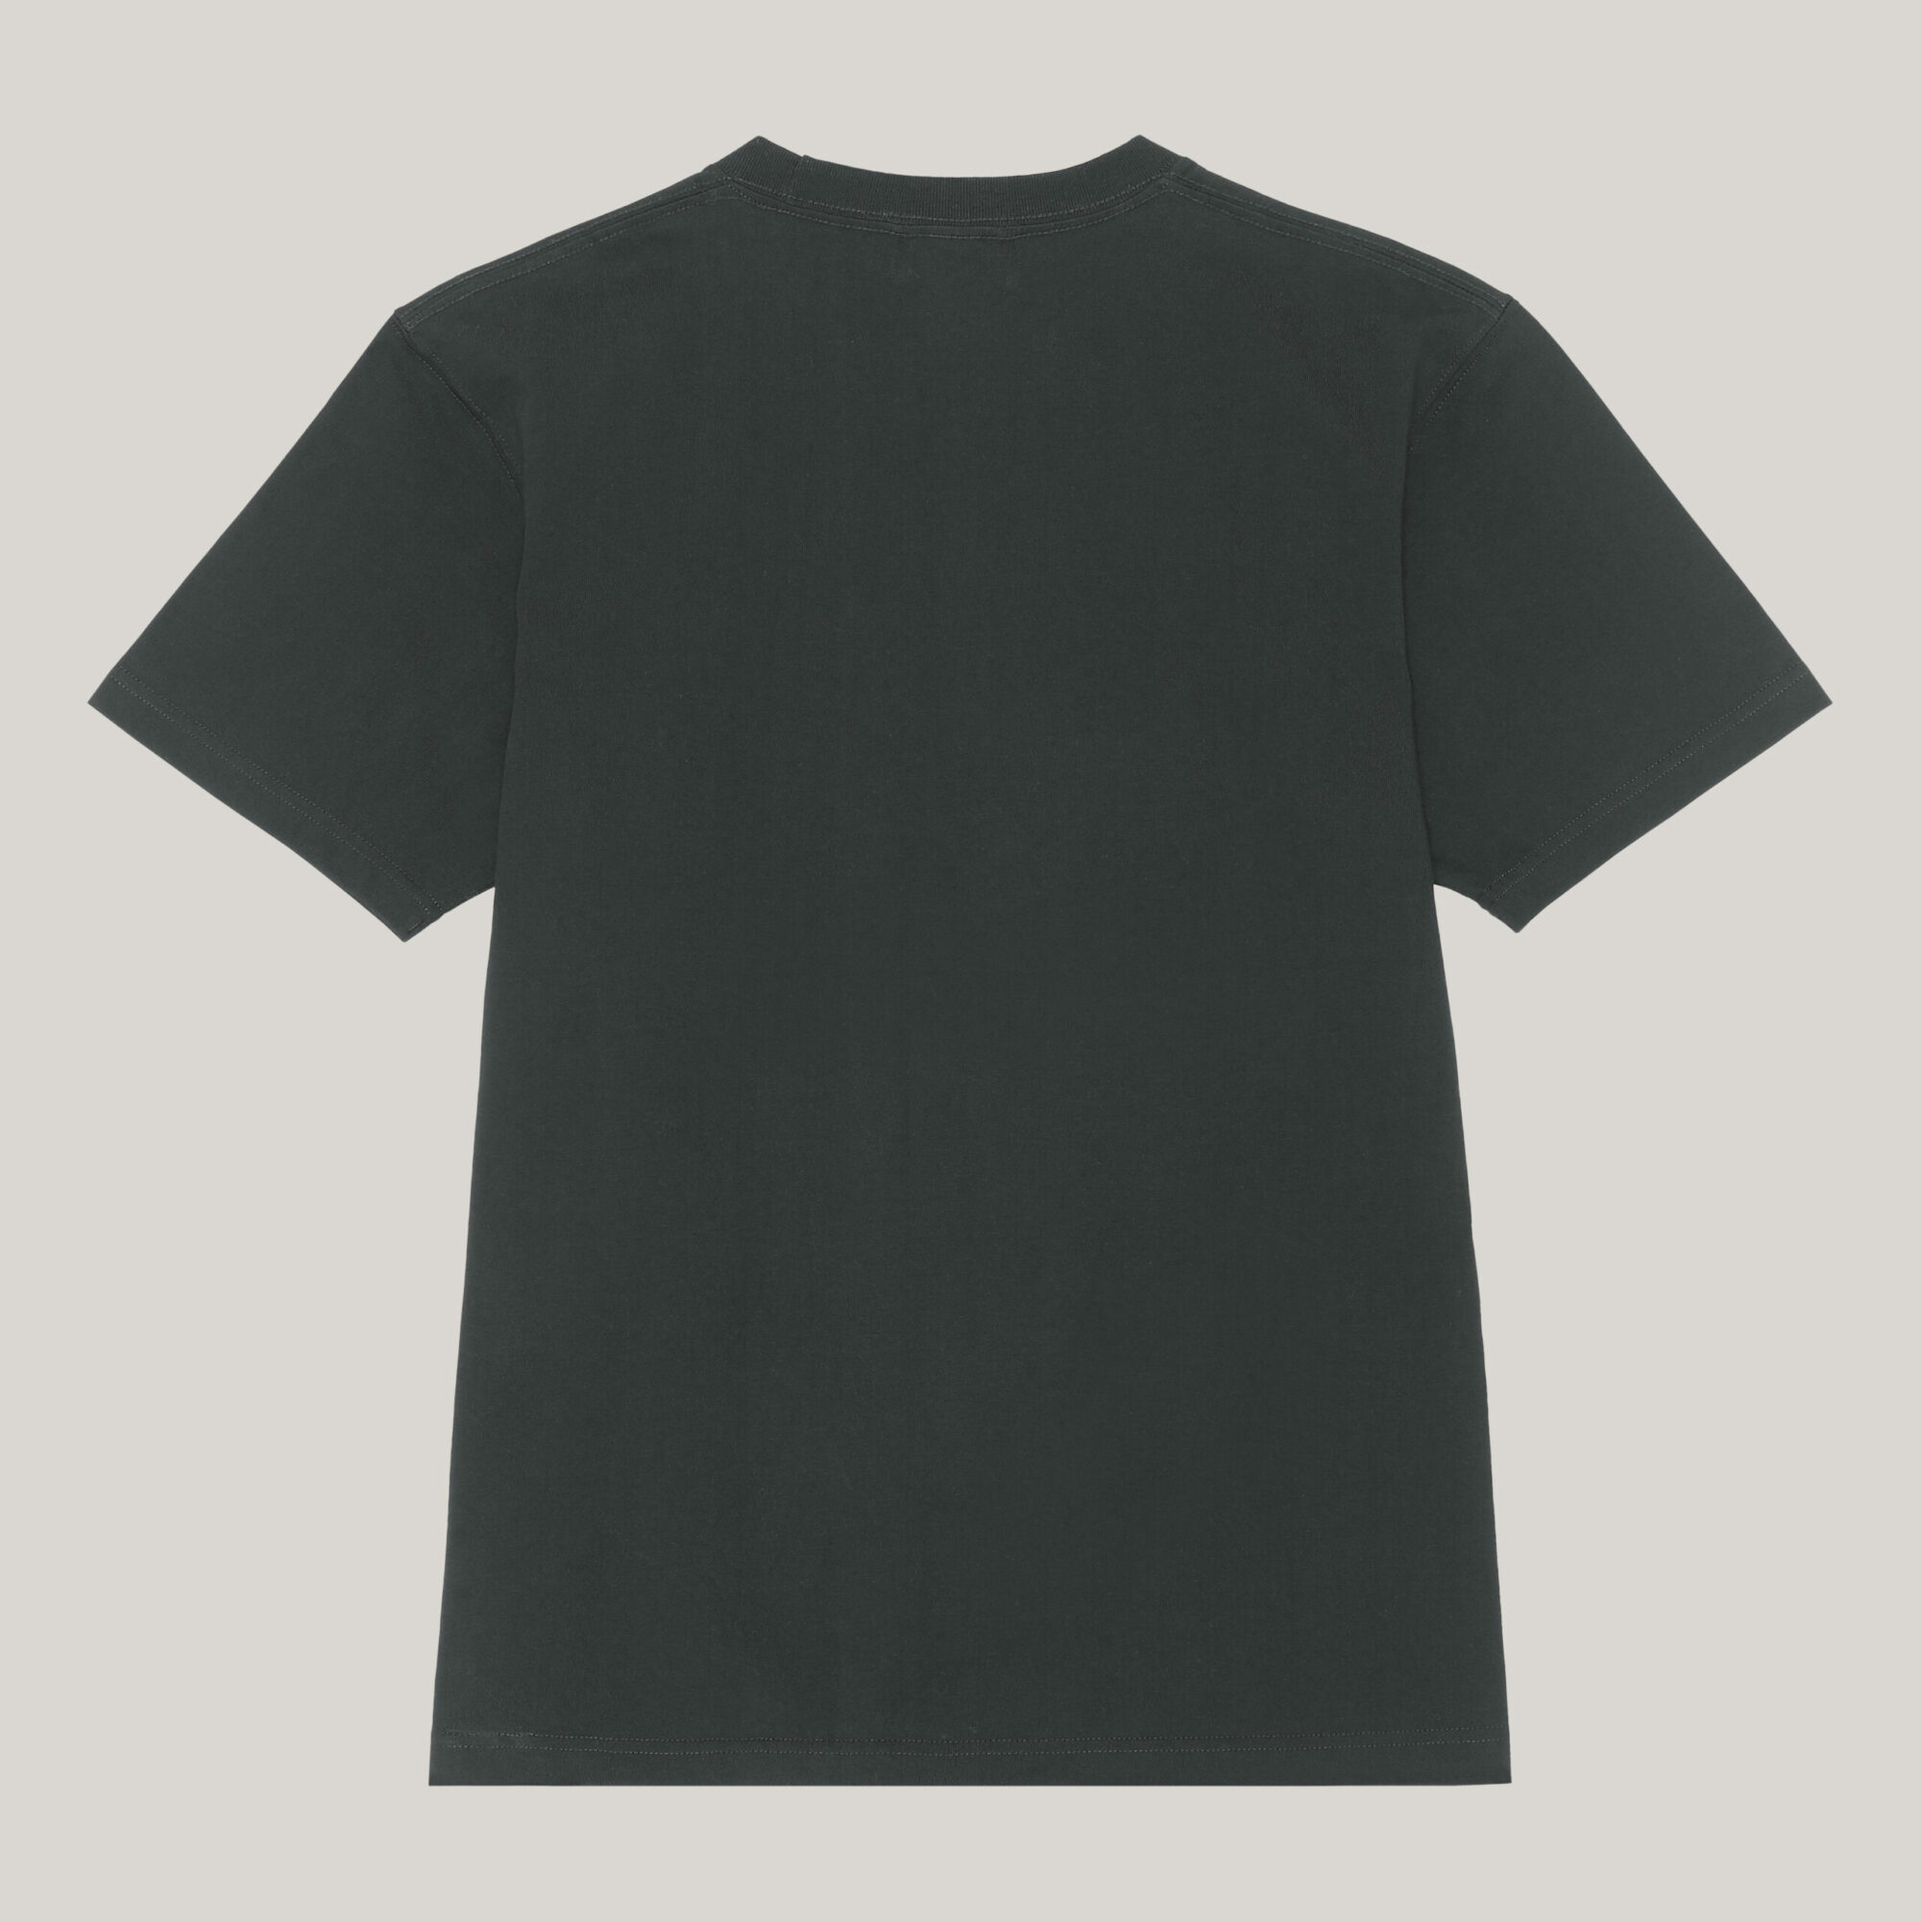
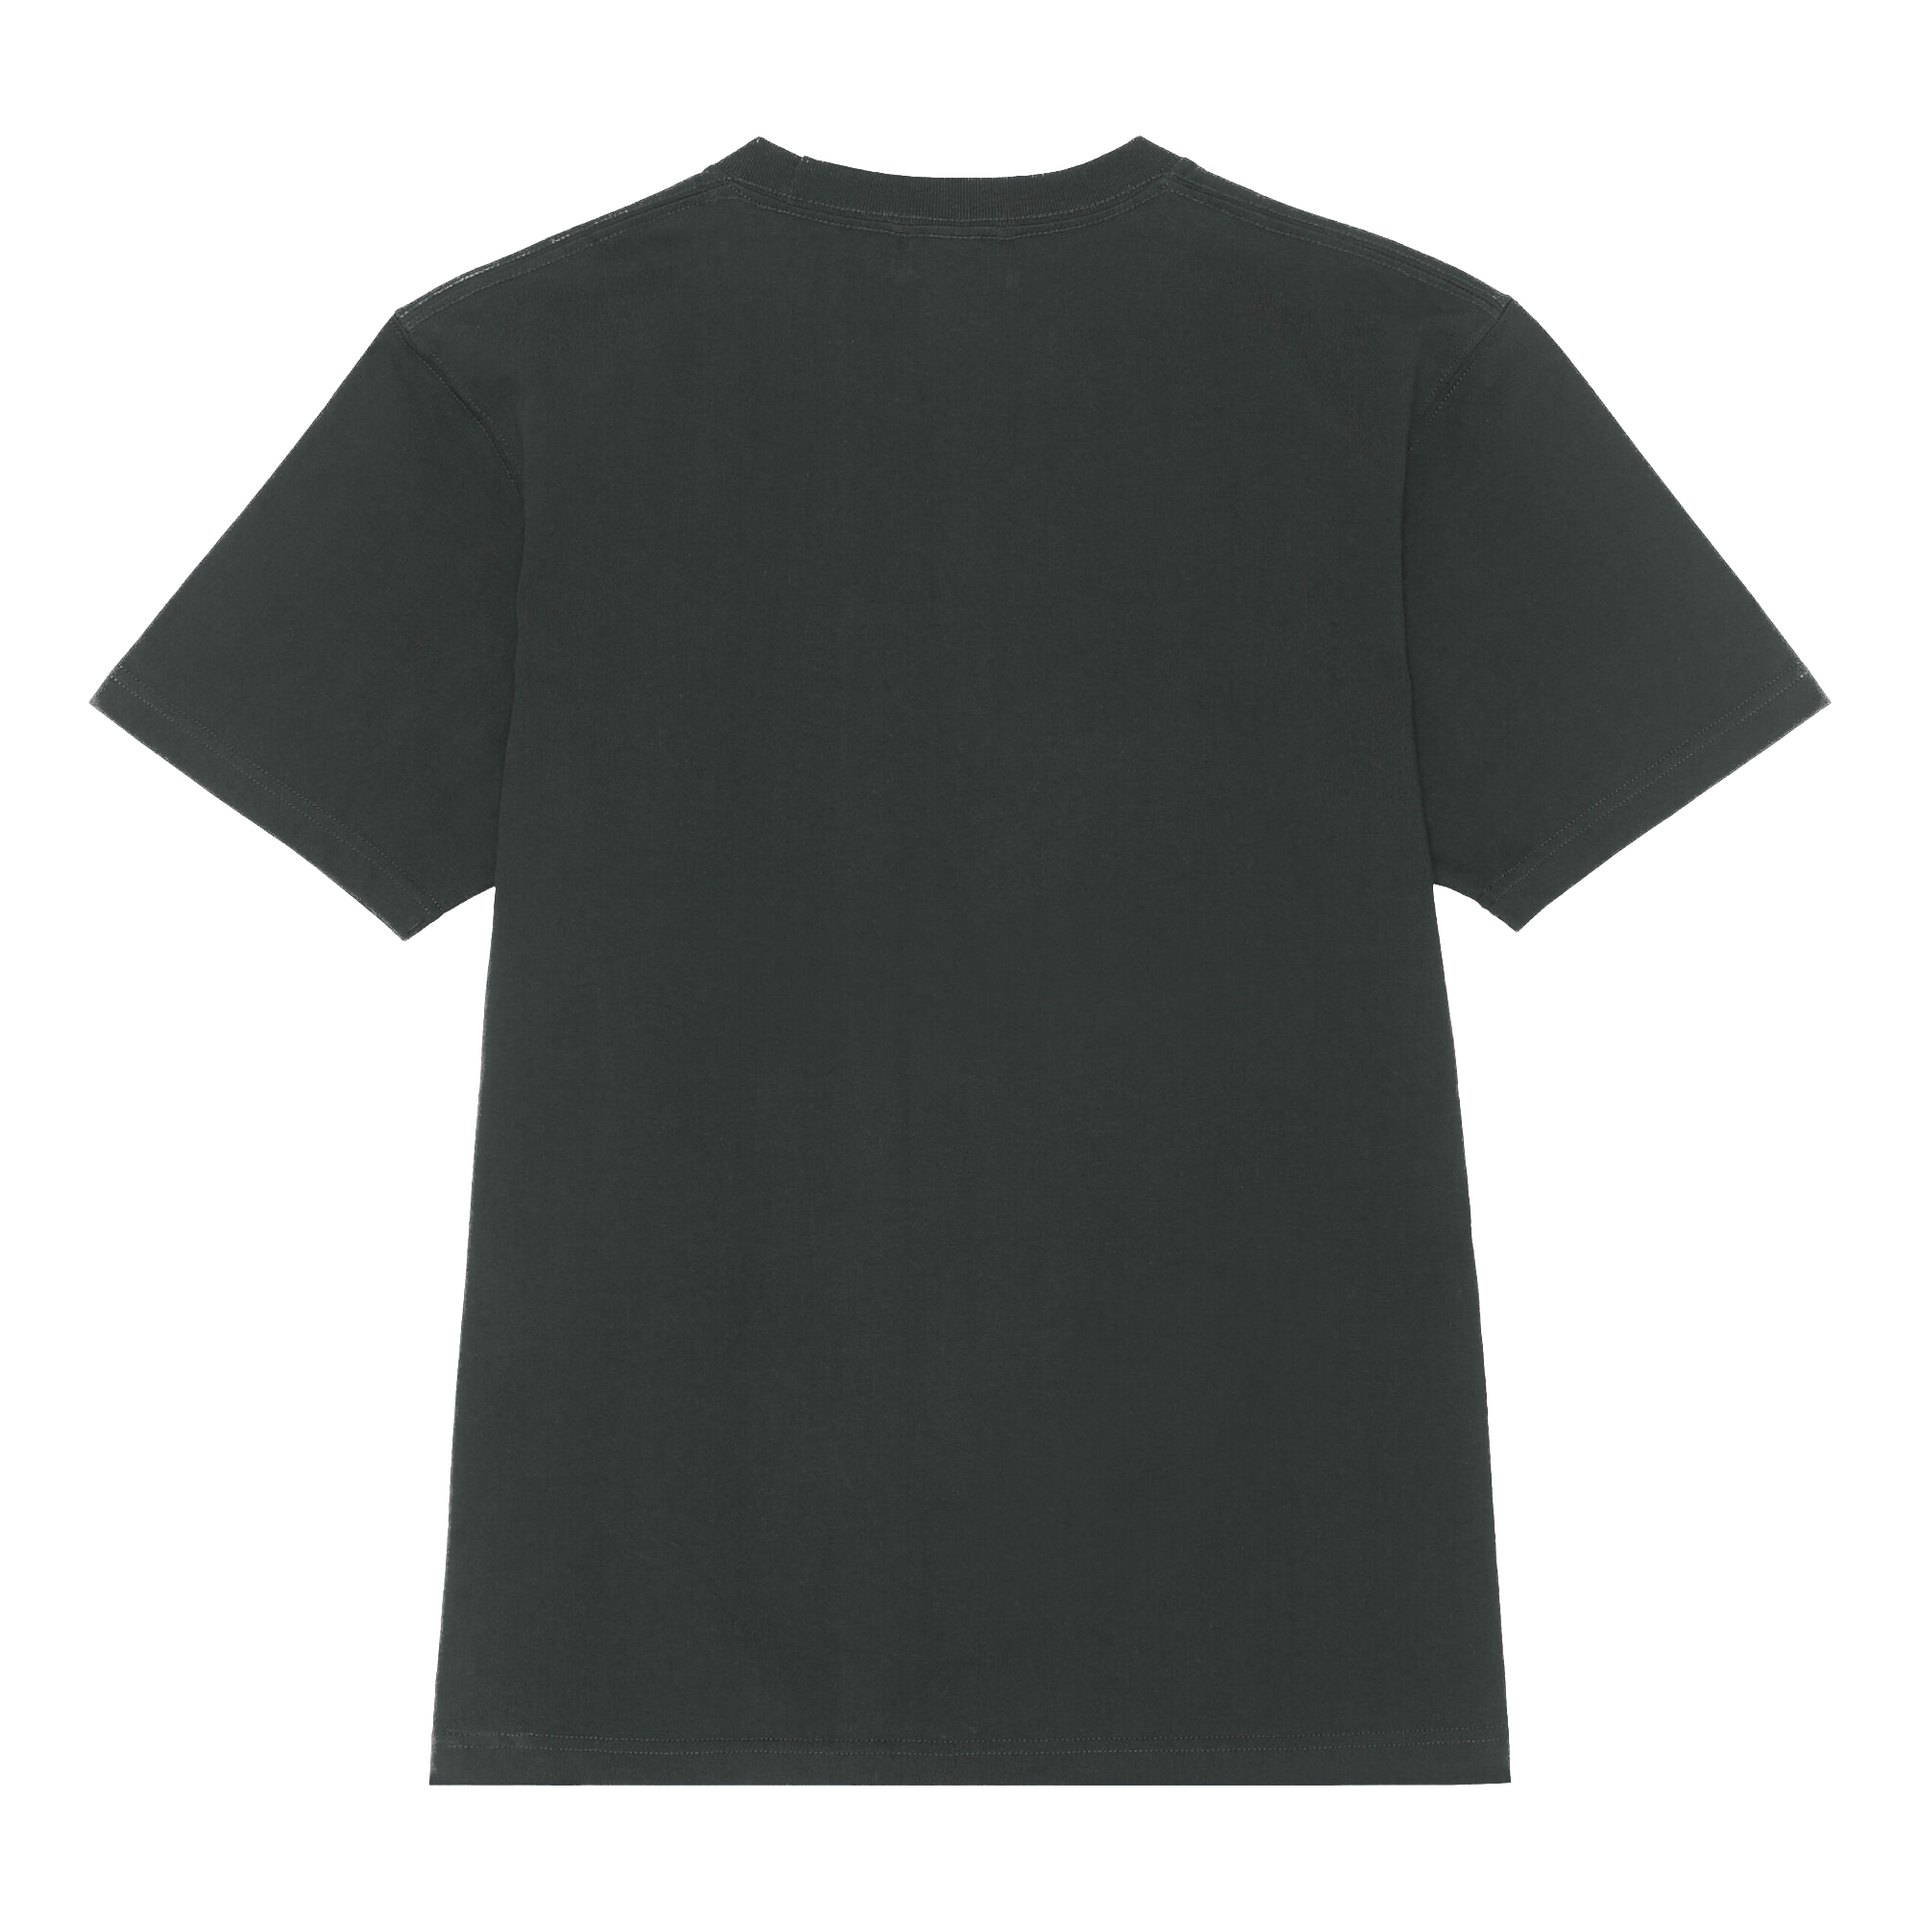
trying the google ml kit

diff --git a/pose_2.py b/pose_2.py
@@ -3,7 +3,7 @@ import mediapipe as mp
 import numpy as np
 
 # Load t-shirt image with alpha channel
-shirt = cv2.imread("input2.png", cv2.IMREAD_UNCHANGED)
+shirt = cv2.imread("input.png", cv2.IMREAD_UNCHANGED)
 if shirt is None or shirt.shape[2] != 4:
     print("Error: input.png not found or missing alpha channel.", shirt.shape[2])
     exit()
